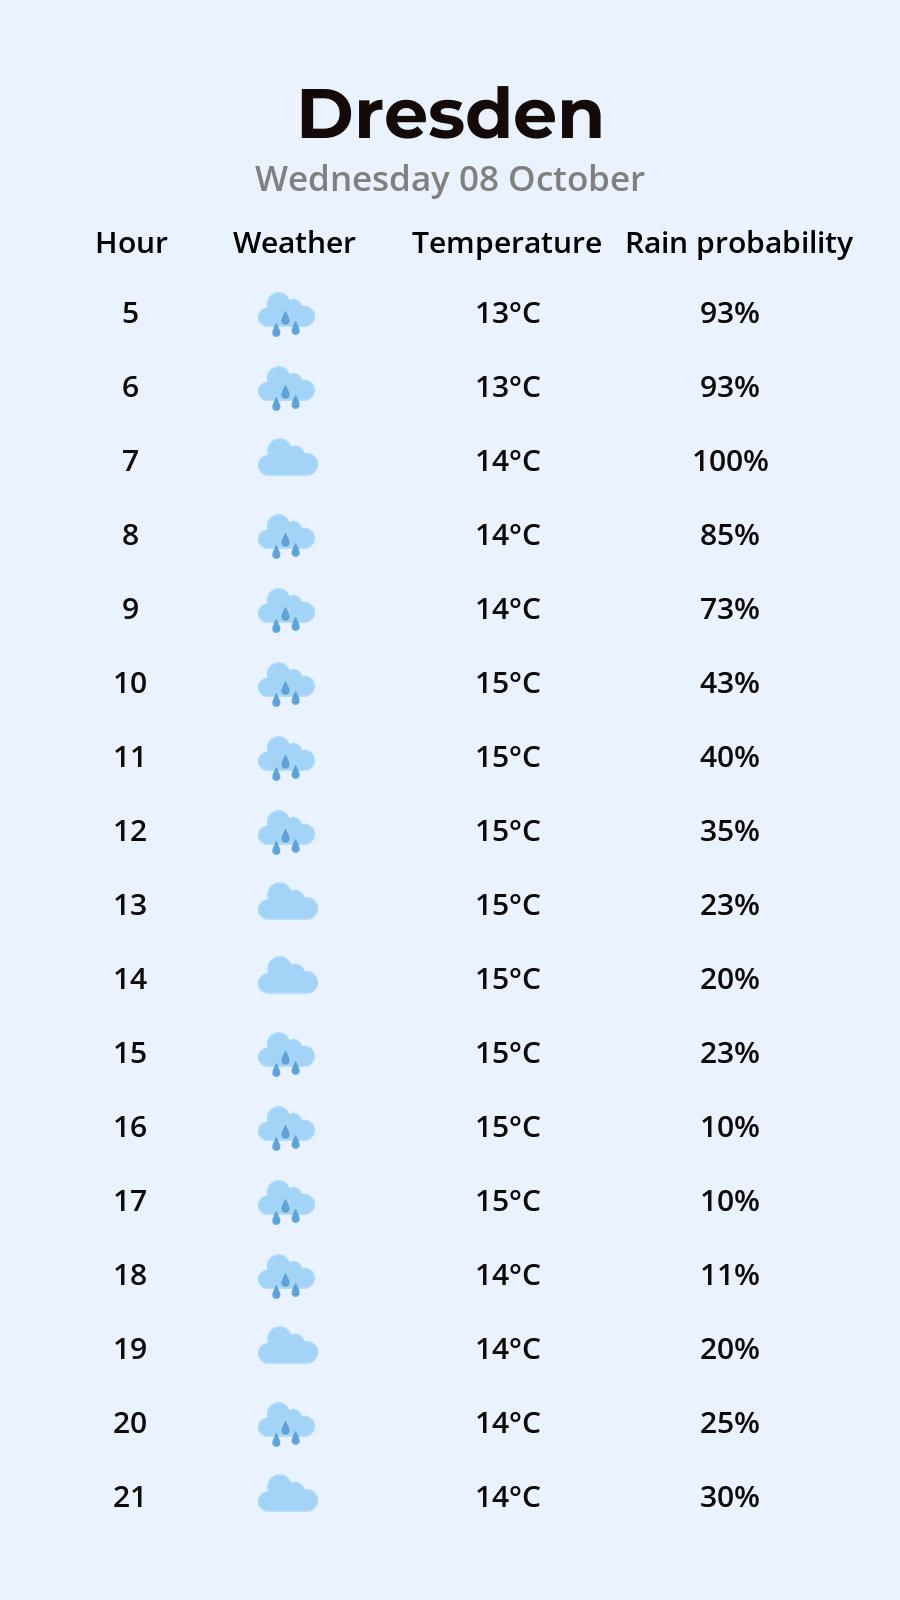
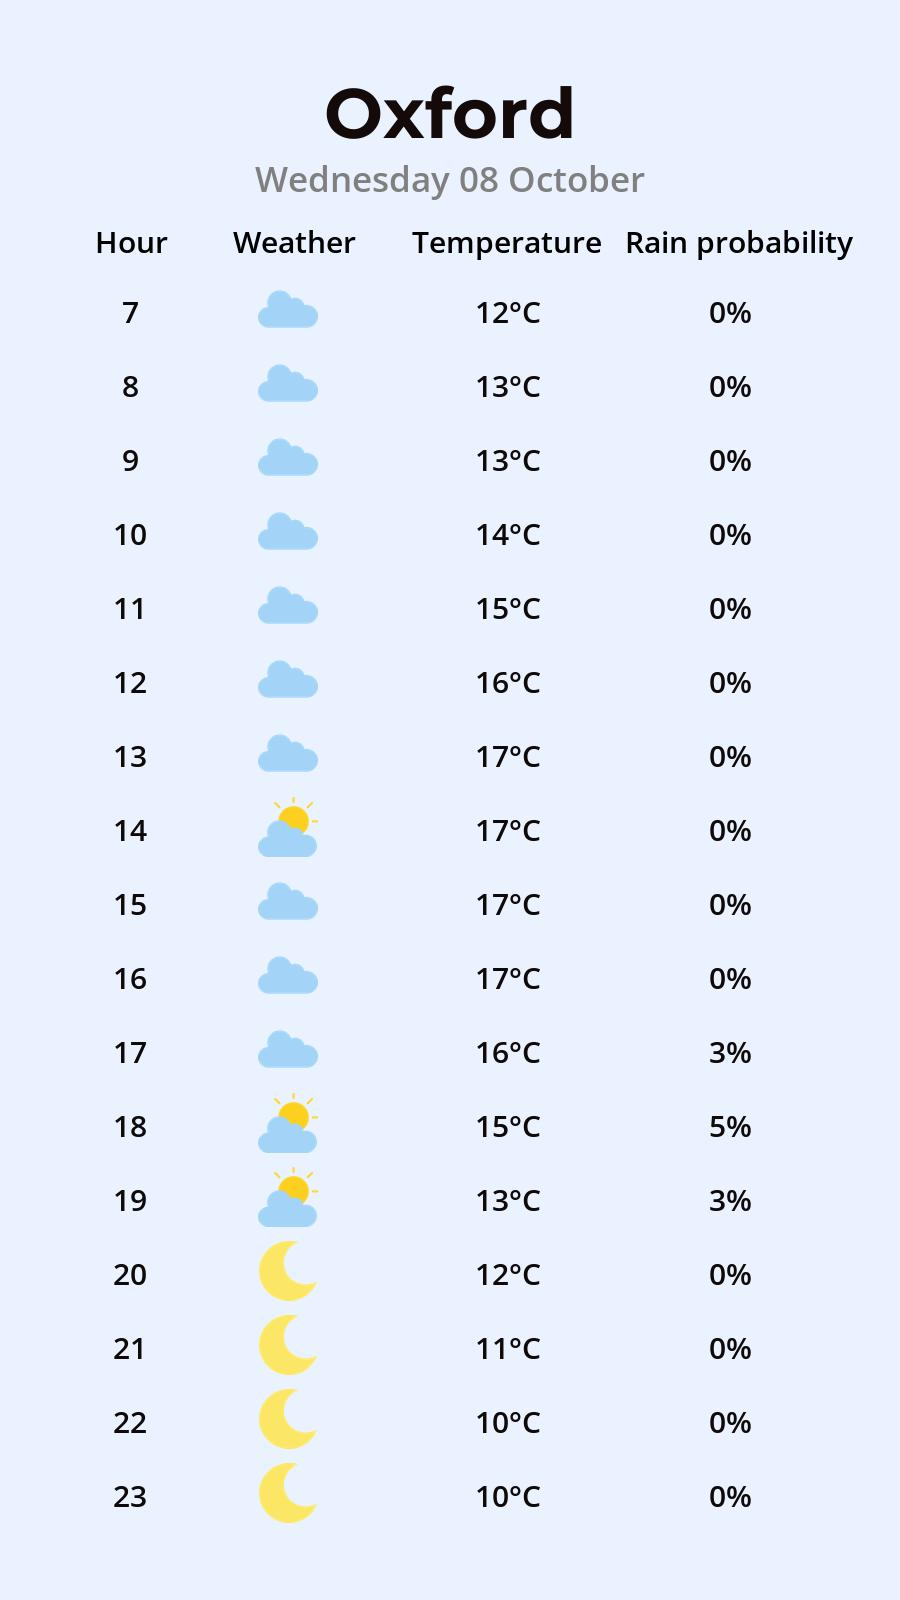
added json system and checking different times

diff --git a/create_image.py b/create_image.py
@@ -2,28 +2,23 @@ from PIL import Image, ImageDraw, ImageFont
 from datetime import datetime
 import os
 
+base_dir = os.path.dirname(os.path.abspath(__file__))
+
 width, height = 900, 1600
-#background_color = "white"
+# background_color = "white"
 background_color = (235, 242, 255)
 title_color = (20, 10, 10)
 subtitle_color = "grey"
 body_color = (15, 10, 10)
 header_color = (0, 0, 0)
 
-base_dir = os.path.dirname(os.path.abspath(__file__))
 font_title = ImageFont.truetype(f"{base_dir}/fonts/Montserrat-Bold.ttf", 70)
 font_subtitle = ImageFont.truetype(f"{base_dir}/fonts/OpenSans-SemiBold.ttf", 35)
 font_body = ImageFont.truetype(f"{base_dir}/fonts/OpenSans-SemiBold.ttf", 30)
 font_header = ImageFont.truetype(f"{base_dir}/fonts/OpenSans-SemiBold.ttf", 30)
-city_name = "Dresden"
 
-# Create blank white image
-img = Image.new("RGB", (width, height), color=background_color)
 
-# Draw text
-draw = ImageDraw.Draw(img)
-
-def write_line_element(element_text, x_box, y_line):
+def write_line_element(element_text, x_box, y_line, draw):
     element_width = draw.textlength(element_text, font=font_body)
     x_element = x_box + (160 - element_width) / 2
     draw.text((x_element, y_line), element_text, fill=body_color, font=font_body)
@@ -50,16 +45,22 @@ def choose_weather(precipitation, cloud, hour, sunrise, sunset):
     return weather
 
 
-def assemble_image(hourly_df, daily_df, base_dir):
+def assemble_image(hourly_df, daily_df, city_name):
+    # Create blank white image
+    img = Image.new("RGB", (width, height), color=background_color)
+
+    # Draw text
+    draw = ImageDraw.Draw(img)
+
     # Measure text size to centre it
-    bbox_title = draw.textbbox((0,0), city_name, font=font_title)
+    bbox_title = draw.textbbox((0, 0), city_name, font=font_title)
     x_title = (width - (bbox_title[2] - bbox_title[0])) / 2
     y_title = 70  # top margin
     draw.text((x_title, y_title), city_name, fill=title_color, font=font_title)
 
     # Current date (formatted like "Tuesday 7 October")
     today = datetime.now().strftime("%A %d %B")
-    bbox_subtitle = draw.textbbox((0,0), today, font=font_subtitle)
+    bbox_subtitle = draw.textbbox((0, 0), today, font=font_subtitle)
     x_subtitle = (width - (bbox_subtitle[2] - bbox_subtitle[0])) / 2
     y_subtitle = y_title + bbox_title[3] - bbox_title[1] + 30  # 30px spacing below title
     draw.text((x_subtitle, y_subtitle), today, fill=subtitle_color, font=font_subtitle)
@@ -72,8 +73,8 @@ def assemble_image(hourly_df, daily_df, base_dir):
     sunrise_ts = daily_df["sunrise"][0]
     sunset_ts = daily_df["sunset"][0]
 
-    sunrise = datetime.fromtimestamp(sunrise_ts).hour + datetime.fromtimestamp(sunrise_ts).minute/60
-    sunset = datetime.fromtimestamp(sunset_ts).hour + datetime.fromtimestamp(sunset_ts).minute/60
+    sunrise = datetime.fromtimestamp(sunrise_ts).hour + datetime.fromtimestamp(sunrise_ts).minute / 60
+    sunset = datetime.fromtimestamp(sunset_ts).hour + datetime.fromtimestamp(sunset_ts).minute / 60
 
     for i, row in hourly_df.iterrows():
         temperature = row["temperature_2m"]
@@ -85,7 +86,7 @@ def assemble_image(hourly_df, daily_df, base_dir):
         y_line = 290 + i * 74
 
         hour_text = str(hour)
-        write_line_element(hour_text, 50, y_line)
+        write_line_element(hour_text, 50, y_line, draw)
 
         weather = choose_weather(precipitation, cloud, hour, sunrise, sunset)
         icon_path = f"{base_dir}/icons/{weather}.png"
@@ -96,13 +97,10 @@ def assemble_image(hourly_df, daily_df, base_dir):
         img.paste(icon, (x_icon, y_line - 11), icon)
 
         temperature_text = f"{round(temperature)}°C"
-        write_line_element(temperature_text, 428, y_line)
+        write_line_element(temperature_text, 428, y_line, draw)
 
         pp_text = f"{round(pp)}%"
-        write_line_element(pp_text, 650, y_line)
-
+        write_line_element(pp_text, 650, y_line, draw)
 
     # Save
-    img.save("weather_info.jpg")
-
-
+    img.save(f"images/{city_name}.jpg")

diff --git a/schedulers_handler.py b/schedulers_handler.py
@@ -1,0 +1,110 @@
+import json
+import os
+from datetime import datetime, timedelta
+
+def load_active_schedulers(directory: str):
+    """
+    Reads all JSON files in the given directory, loads the ones marked as active,
+    and returns a list of dictionaries with their information.
+
+    Parameters:
+        directory (str): Path to the folder containing scheduler JSON files.
+
+    Returns:
+        list[dict]: List of active scheduler configurations.
+    """
+    schedulers = []
+
+    # Iterate over all files in the directory
+    for filename in os.listdir(directory):
+        if filename.endswith(".json"):
+            filepath = os.path.join(directory, filename)
+            try:
+                # Open and load the JSON content
+                with open(filepath, "r") as file:
+                    data = json.load(file)
+
+                # Check if scheduler is marked as active
+                if data.get("status", "").lower() == "active":
+                    schedulers.append(data)
+
+            except (json.JSONDecodeError, OSError) as e:
+                print(f"⚠ Could not read {filename}: {e}")
+
+    return schedulers
+
+def get_imminent_schedulers(schedulers, CHECK_INTERVAL_MINUTES):
+    imminent_schedulers = []
+    now = datetime.now()
+    soon = now + timedelta(minutes=CHECK_INTERVAL_MINUTES)
+
+    for scheduler in schedulers:
+        send_time_str = scheduler["time"]  # e.g., "14:30"
+        if send_time_str:
+            try:
+                hour, minute = map(int, send_time_str.split(":"))
+                send_datetime = now.replace(hour=hour, minute=minute, second=0, microsecond=0)
+
+                # If send time has already passed today, skip
+                if send_datetime < now:
+                    continue
+
+                if now <= send_datetime <= soon:
+                    imminent_schedulers.append(scheduler)
+            except ValueError:
+                print(f"Invalid time format in {scheduler["scheduler name"]}: {send_time_str}")
+
+    return imminent_schedulers
+
+def create_email_profile():
+    print("\n=== Create a new email profile ===")
+
+    # Get the name for the JSON file (without .json)
+    file_name = input("Enter a name for this scheduler: ").strip()
+    if not file_name:
+        print("❌ File name cannot be empty.")
+        return
+
+    # Ask for all the relevant info
+    status = str(input("Status (active/inactive): ").strip().lower())
+    time = str(input("Send time (HH:MM, 24-hour format): ").strip())
+    city_name = str(input("City name: ").strip())
+    city_lat = float(input("City latitude: ").strip())
+    city_lon = float(input("City longitude: ").strip())
+    email = str(input("Recipient email address: ").strip())
+    subject = str(input("Email subject: ").strip())
+    text = str(input("Email message text: ").strip())
+
+    # Assemble the dictionary
+    profile = {
+        "scheduler name": file_name,
+        "status": status,
+        "city name": city_name,
+        "coordinates": {
+            "latitude": city_lat,
+            "longitude": city_lon
+        },
+        "subject": subject,
+        "email": email,
+        "text": text,
+        "time": time
+    }
+
+    # Ensure directory exists
+    os.makedirs("email_profiles", exist_ok=True)
+
+    # Save to JSON file
+    file_path = os.path.join("email_profiles", f"{file_name}.json")
+    with open(file_path, "w", encoding="utf-8") as f:
+        json.dump(profile, f, indent=4)
+
+    input(f"\n✅ Email profile saved as {file_path}")
+
+
+if __name__ == "__main__":
+    while True:
+        create_email_profile()
+        cont = input("\nCreate another profile? (y/n): ").strip().lower()
+        if cont != "y":
+            print("Done.")
+            break

diff --git a/main.py b/main.py
@@ -1,24 +1,21 @@
 from extract_weather_info import extract_weather
 from create_image import assemble_image
 from send_email import send_email
+from schedulers_handler import load_active_schedulers, get_imminent_schedulers
+from check_imminent_jobs import CHECK_INTERVAL_MINUTES
 import os
 
-dresden_coordinates = [(51.0509, 13.7383)]
-rome_coordinates = [(41.8919, 12.5113)]
-la_coordinates = [(34.0522, -118.2437)]
-munich_coordinates = [(48.1374, 11.5755)]
-kyoto_coordinates = [(35.0116, 135.7681)]
-cleveland_coordinates = [(41.4993, -81.6944)]
-louisville_coordinates = [(38.2469, -85.7664)]
-coordinates = dresden_coordinates
+base_dir = os.path.dirname(os.path.abspath(__file__))
 
 # --- Configuration ---
 sender_email = "tommasogallo2016@gmail.com"
 with open("password.txt", "r") as f:
     sender_password = str(f.readline())
+
 hourly_params = ["temperature_2m", "precipitation", "cloud_cover", "precipitation_probability"]
 daily_params = ["sunrise", "sunset"]
 
+images_path = base_dir + f"/images"
 
 """
 receiver_email = "tommasogallo2023@gmail.com"
@@ -31,15 +28,34 @@ message = (f"Dear Derya, \n"
            f"Love you! \n"
            f"Tommaso")
 """
+if __name__ == "__main__":
+    schedulers = load_active_schedulers(base_dir + "/email_profiles")
+    imminent_schedulers = get_imminent_schedulers(schedulers, CHECK_INTERVAL_MINUTES)
 
-base_dir = os.path.dirname(os.path.abspath(__file__))
+    city_names = []
+    for scheduler in imminent_schedulers:
+        city_name = scheduler["city name"]
+        if city_name not in city_names:
+            city_names.append(city_name)
+            coordinates = scheduler["coordinates"]
+            lat = coordinates["latitude"]
+            lon = coordinates["longitude"]
+            hourly_df, daily_df = extract_weather(lat, lon, hourly_params, daily_params)
+            assemble_image(hourly_df, daily_df, city_name)
 
-for lat, lon in coordinates:
-    hourly_df, daily_df = extract_weather(lat, lon, hourly_params, daily_params)
-    assemble_image(hourly_df, daily_df, base_dir)
-    send_email(sender_email, sender_password, receiver_email, subject=subject, message=message, str_path="weather_info.jpg")
+    for scheduler in imminent_schedulers:
+        coordinates = scheduler["coordinates"]
+        city_name = scheduler["city name"]
+        email_subject = scheduler["subject"]
+        receiver_email = scheduler["email"]
+        email_message = scheduler["text"]
+        send_email(sender_email, sender_password, receiver_email, subject=email_subject, message=email_message,
+                   str_path=images_path + f"/{city_name}.jpg")
 
-
+    for filename in os.listdir(images_path):
+        file_path = os.path.join(images_path, filename)
+        if os.path.isfile(file_path):
+            os.remove(file_path)
 
 """
 things to improve:

diff --git a/check_imminent_jobs.py b/check_imminent_jobs.py
@@ -1,0 +1,28 @@
+from schedulers_handler import load_active_schedulers, get_imminent_schedulers
+import subprocess
+import platform
+import os
+
+# How far ahead to consider a job as "imminent"
+CHECK_INTERVAL_MINUTES = 10
+
+base_dir = os.path.dirname(os.path.abspath(__file__))
+system = platform.system()
+if system == "Windows":
+    PYTHON_PATH = f"{base_dir}/venv1/Scripts/python.exe"
+    MAIN_SCRIPT = f"{base_dir}/main.py"
+elif system == "Linux":
+    PYTHON_PATH = f"{base_dir}/venv/bin/python"
+    MAIN_SCRIPT = f"{base_dir}/main.py"
+else:
+    raise Exception(f"Unsupported OS: {system}")
+
+
+def main():
+    schedulers = load_active_schedulers(base_dir + "/email_profiles")
+    if len(get_imminent_schedulers(schedulers, CHECK_INTERVAL_MINUTES)) > 0:
+        subprocess.run([PYTHON_PATH, MAIN_SCRIPT])
+
+
+if __name__ == "__main__":
+    main()
